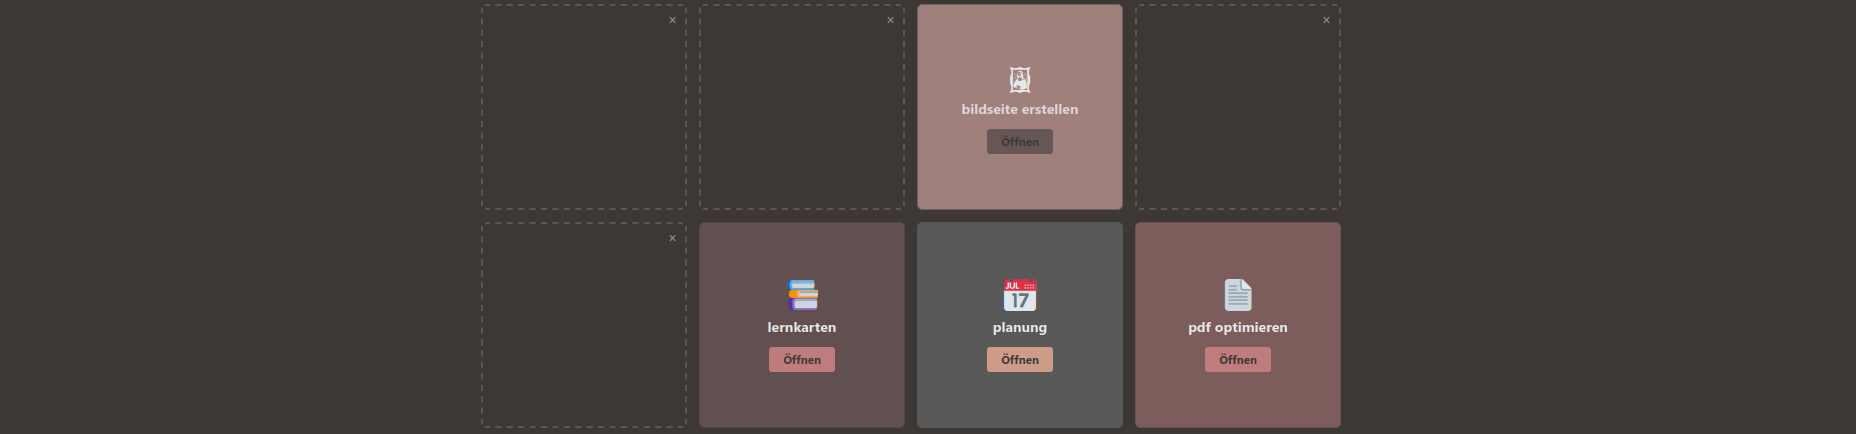
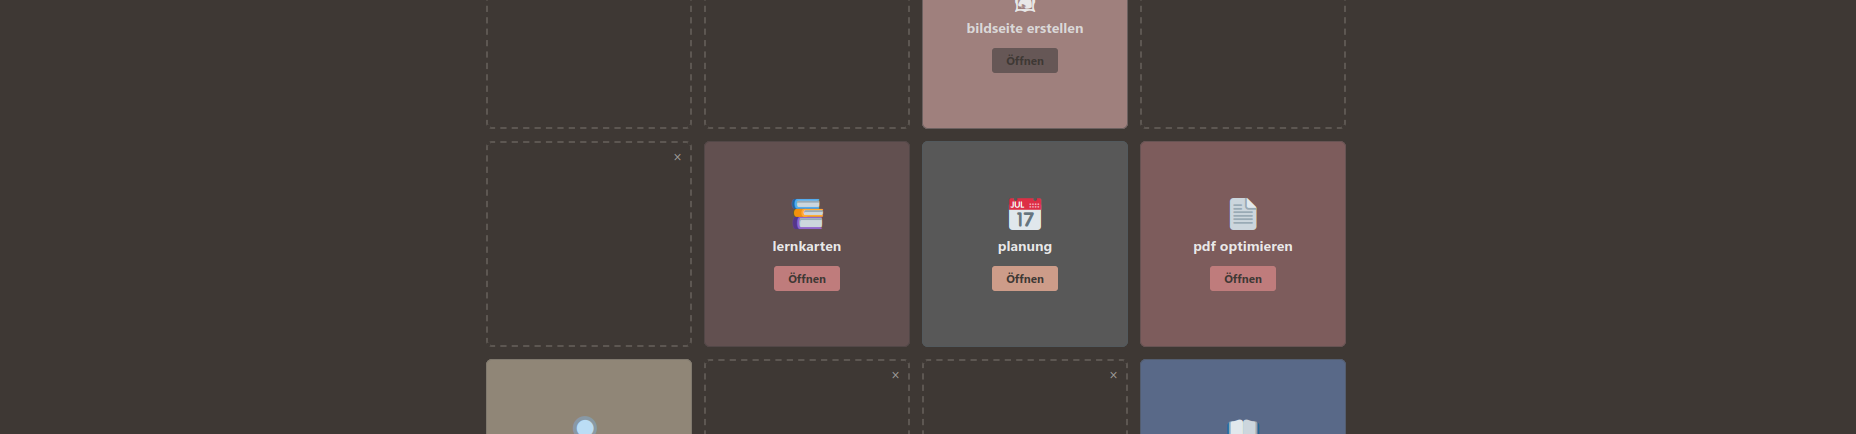
minor tul howto update

Changed region(s): [[0.25, 0.0, 0.75, 1.0]]

diff --git a/docs/anleitung/tul-werkzeuge.html b/docs/anleitung/tul-werkzeuge.html
@@ -32,11 +32,12 @@
     <div class="h1c">🧰 tul-Werkzeuge nutzen</div>
     <div class="subline">Ein Skript-Host, aus- und umbaubar — die aktuellen Module als Beispiele</div>
 
-    <div class="help-p">tul_s ist kein festes Achter-Set, sondern ein allgemeiner Host für eigene
-    Skripte und Bedienoberflächen: gemeinsame Anmeldung (Hub-Startseite), gemeinsames Datei-Modal,
-    dieselbe Kopfzeilen-Struktur in jedem Modul — wer eines kennt, findet sich in den anderen sofort
-    zurecht. Über die Datei-Brücke (DV) direkt als Werkzeugbank für mkan-Dateien nutzbar: Dateien
-    wandern zur Bearbeitung hin, Ergebnisse zurück auf die auslösende Karte.</div>
+    <div class="help-p">tul_s ist ein allgemeiner Host für eigene Skripte und Bedienoberflächen mit kaum begrenzten 
+    Möglichkeiten - was sich als python-Skript hinter einem html-panel mit css und js ausdenken lässt, kann hier 
+    nutzbar hinterlegt werde. Eine gemeinsame Anmeldung (Hub-Startseite), dieselbe Kopfzeilen-Struktur in jedem Modul — 
+    wer eines kennt, findet sich in den anderen sofort zurecht. Über die Datei-Brücke (DV) ist tul's direkt als Werkzeugbank 
+    für mkan-Dateien nutzbar: Dateien werden in der mkan-Karte zur Bearbeitung für die input-Seite des DV-Modals freigegeben, 
+    Ergebnisse der Bearbeitung dann zurück auf die auslösende Karte geschickt.</div>
 
     <div class="help-p">Die acht Module unten sind der aktuelle Stand — <strong>Beispiele dessen,
     was sich hier andocken lässt</strong>, keine abschließende Liste. Mit etwas